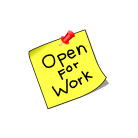
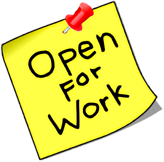
feat: link sections

diff --git a/app/_components/section-avatar-socials.tsx b/app/_components/section-avatar-socials.tsx
@@ -30,12 +30,13 @@ function AvatarSocials() {
         href={`mailto:dinogomez.dev@gmail.com?subject=Job%20Opportunity%20or%20Project%20Collaboration&body=Dear%20Dino,%0D%0A`}
       >
         <motion.img
-          initial={{ scale: 0.5, y: 0 }}
-          whileHover={{ scale: 0.6, y: -5 }}
+          initial={{ scale: 0.6, y: 0 }}
+          whileHover={{ scale: 0.8, y: -5 }}
           transition={{ duration: 0.2 }}
-          className={`absolute right-[-5.5em] top-[0.3em]  sm:top-[2.3em] -translate-y-[-2.9em]`}
-          src="sticky-note.webp"
+          className={`antialiased absolute right-[-5.5em] top-[0.3em]  sm:top-[2.3em] -translate-y-[-2.9em]`}
+          src="sticky-note.png"
           alt="Sticky Note Light"
+          style={{ imageRendering: "crisp-edges" }}
         />
       </Link>
 

diff --git a/app/_components/section-breadcrumb.tsx b/app/_components/section-breadcrumb.tsx
@@ -32,7 +32,7 @@ function BreadCrumb() {
             {pathname === "/" ? (
               <BreadcrumbPage>Experience</BreadcrumbPage>
             ) : (
-              <BreadcrumbLink href="/">Experience</BreadcrumbLink>
+              <BreadcrumbLink href="/#list">Experience</BreadcrumbLink>
             )}
           </BreadcrumbItem>
           <BreadcrumbSeparator />
@@ -42,7 +42,7 @@ function BreadCrumb() {
                 <BreadcrumbPage>Projects</BreadcrumbPage>
               </div>
             ) : (
-              <BreadcrumbLink href="/projects">
+              <BreadcrumbLink href="/projects#list">
                 <div className="flex items-center">Projects</div>
               </BreadcrumbLink>
             )}

diff --git a/app/layout.tsx b/app/layout.tsx
@@ -28,7 +28,7 @@ export default function RootLayout({
 }) {
   return (
     <ViewTransitions>
-      <html lang="en">
+      <html lang="en" className="scroll-smooth">
         <body
           className={`${GeistSans.variable} ${GeistMono.variable} w-screen overflow-x-hidden  min-h-screen bg-background dark:bg-background font-sans antialiased`}
         >

diff --git a/app/_components/section-experience.tsx b/app/_components/section-experience.tsx
@@ -51,7 +51,7 @@ const Loading = () => (
 function Experience() {
   return (
     <Suspense fallback={<Loading />}>
-      <section className="flex flex-col gap-4 text-primary pt-3">
+      <section id="list" className="flex flex-col gap-4 text-primary pt-3">
         {" "}
         {Config.Experience.map((exp, index) => (
           <motion.div

diff --git a/app/projects/_components/card-grid.tsx b/app/projects/_components/card-grid.tsx
@@ -21,6 +21,7 @@ export const CardGrid = ({ className }: { className?: string }) => {
   return (
     <Suspense fallback={<Loading />}>
       <motion.section
+        id="list"
         initial={{ opacity: 0, scale: 0.5 }}
         animate={{ opacity: 1, scale: 1 }}
         transition={{ type: "spring", duration: 0.5, ease: "easeInOut" }}
